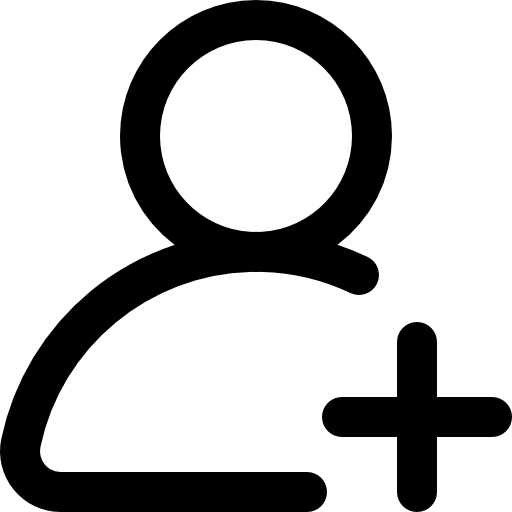
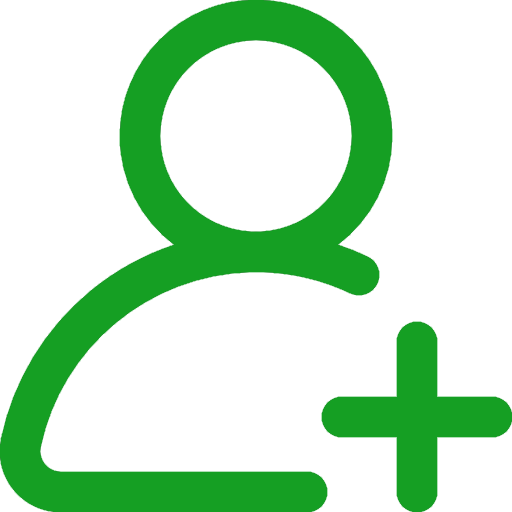
users feito so falta responsividade

Changed region(s): [[0.0, 0.0, 0.7812, 1.0], [0.625, 0.625, 1.0, 1.0]]

diff --git a/users-page.html b/users-page.html
@@ -17,7 +17,7 @@
         });
     </script>
 
-    <!-- <script src="js/users.js" type="text/javascript"></script> -->
+    <script src="js/users.js" type="text/javascript"></script>
 </head>
 <body>
     <div id="header"></div>
@@ -26,11 +26,11 @@
         <div class="content">
             <div class="title">
                 <h1>This is our community!</h1>
-                <h5>Here are some active users on our community, and their favorite games. We promote comunication and healthy/respectfull interactions, here are some recomendations:</h5>
+                <h5>Here are some active users on our community, and their favorite games. We promote comunication and respectfull interactions, here are some recomendations:</h5>
             </div>
             
             <div class="usersTable">
-                <table border="1">
+                <table>
                     <tr>
                         <th></th>
                         <th>Username</th>
@@ -38,87 +38,71 @@
                         <th colspan="2"></th>
                     </tr>
                     <tr>
-                        <td>
-                            <img src="images/user.png" width="45px">
-                        </td>
-                        <td>
-                            <p>randomPerson-username2855</p>
-                        </td>
-                        <td>
-                            <p>Minecraft</p>
-                        </td>
-                        <td>
-                            <button><img src="images/add-user.png" width="20px"> Add friend</button>
-                        </td>
-                        <td>
-                            <button><img src="images/report.png" width="20px"> report</button>
-                        </td>
+                        <td><img src="images/user.png" width="45px"></td>
+                        <td><p>randomPerson-username2855</p></td>
+                        <td><p>Minecraft</p></td>
+                        <td><button class="addFriendBtn"><img src="images/add-user.png" width="20px"> Add friend</button></td>
+                        <td><button class="reportBtn"><img src="images/report.png" width="20px"> Report</button></td>
                     </tr>
                     <tr>
-                        <td>
-                            <img src="images/user.png" width="45px">
-                        </td>
-                        <td>
-                            <p>randomPerson-username2855</p>
-                        </td>
-                        <td>
-                            <p>League of Legends</p>
-                        </td>
-                        <td>
-                            <button><img src="images/add-user.png" width="20px"> Add friend</button>
-                        </td>
-                        <td>
-                            <button><img src="images/report.png" width="20px"> report</button>
-                        </td>
+                        <td><img src="images/user.png" width="45px"></td>
+                        <td><p>randomPerson-username2855</p></td>
+                        <td><p>League of Legends</p></td>
+                        <td><button class="addFriendBtn"><img src="images/add-user.png" width="20px"> Add friend</button></td>
+                        <td><button class="reportBtn"><img src="images/report.png" width="20px"> Report</button></td>
                     </tr>
                     <tr>
-                        <td>
-                            <img src="images/user.png" width="45px">
-                        </td>
-                        <td>
-                            <p>randomPerson-username2855</p>
-                        </td>
-                        <td>
-                            <p>Terraria</p>
-                        </td>
-                        <td>
-                            <button><img src="images/add-user.png" width="20px"> Add friend</button>
-                        </td>
-                        <td>
-                            <button><img src="images/report.png" width="20px"> report</button>
-                        </td>
+                        <td><img src="images/user.png" width="45px"></td>
+                        <td><p>randomPerson-username2855</p></td>
+                        <td><p>Terraria</p></td>
+                        <td><button class="addFriendBtn"><img src="images/add-user.png" width="20px"> Add friend</button></td>
+                        <td><button class="reportBtn"><img src="images/report.png" width="20px"> Report</button></td>
                     </tr>
                     <tr>
-                        <td>
-                            <img src="images/user.png" width="45px">
-                        </td>
-                        <td>
-                            <p>randomPerson-username2855</p>
-                        </td>
-                        <td>
-                            <p>Rainbow Six Siege</p>
-                        </td>
-                        <td>
-                            <button><img src="images/add-user.png" width="20px"> Add friend</button>
-                        </td>
-                        <td>
-                            <button><img src="images/report.png" width="20px"> report</button>
-                        </td>
+                        <td><img src="images/user.png" width="45px"></td>
+                        <td><p>randomPerson-username2855</p></td>
+                        <td><p>Rainbow Six Siege</p></td>
+                        <td><button class="addFriendBtn"><img src="images/add-user.png" width="20px"> Add friend</button></td>
+                        <td><button class="reportBtn"><img src="images/report.png" width="20px"> Report</button></td>      
+                    </tr>
+                    <tr>
+                        <td><img src="images/user.png" width="45px"></td>
+                        <td><p>randomPerson-username2855</p></td>
+                        <td><p>Apex Legends</p></td>
+                        <td><button class="addFriendBtn"><img src="images/add-user.png" width="20px"> Add friend</button></td>
+                        <td><button class="reportBtn"><img src="images/report.png" width="20px"> Report</button></td>      
+                    </tr>
+                    <tr>
+                        <td><img src="images/user.png" width="45px"></td>
+                        <td><p>randomPerson-username2855</p></td>
+                        <td><p>Minecraft</p></td>
+                        <td><button class="addFriendBtn"><img src="images/add-user.png" width="20px"> Add friend</button></td>
+                        <td><button class="reportBtn"><img src="images/report.png" width="20px"> Report</button></td>      
+                    </tr>
+                    <tr>
+                        <td><img src="images/user.png" width="45px"></td>
+                        <td><p>randomPerson-username2855</p></td>
+                        <td><p>Counter Strike 2</p></td>
+                        <td><button class="addFriendBtn"><img src="images/add-user.png" width="20px"> Add friend</button></td>
+                        <td><button class="reportBtn"><img src="images/report.png" width="20px"> Report</button></td>      
                     </tr>
                 </table>
             </div>
 
             <div class="report">
-                <h3>In order to keep our community clean and respectfull we offer the option to report users, but any actions will only be taken if justified.</h3>
-                <h4>Report user via form or <a href="">email</a>!</h4>
+                <div class="reportTitle">
+                    <h3>In order to keep our community clean and respectfull we offer the option to report users, but any actions will only be taken if justified.</h3>
+                    <h4>Report user via form or <a href="mailto:exemplo@trabalhoIPW.com">email</a>!</h4>
+                </div>
+                
                 <form action="">
                     <div class="input">
                         <label for="username">Username:</label>
-                        <input type="text" name="username" id="username" placeholder="Your username ...">
+                        <input type="text" name="username" id="username" placeholder="Your username . . .">
                     </div>
                     <div class="input">
                         <label for="report_username">Reporting:</label>
-                        <input type="text" name="report_username" id="report_username" placeholder="Username you want to report...">
+                        <input type="text" name="report_username" id="report_username" placeholder="Username you want to report . . .">
                     </div>
                     <div class="input">
                         <label for="motive">Motive:</label>

diff --git a/css/users-page.css b/css/users-page.css
@@ -26,3 +26,151 @@ body {
     display: flex;
     flex-direction: column;
 }
+
+.title {
+    width: 100%;
+    text-align: center;
+    margin-bottom: 5em;
+}
+
+.title h1 {
+    color: #F45D00;
+    margin-bottom: 1em;
+}
+
+.usersTable {
+    width: 100%;
+    height: 500px;
+    overflow-y: scroll;
+    display: flex;
+    justify-content: center;
+    margin-bottom: 5em;
+}
+
+.usersTable table {
+    width: 80%;
+    border: none;
+    border-collapse: collapse;
+}
+
+.usersTable tr:hover {
+    background-color: #eeeeee;
+}
+
+.usersTable table th {
+    padding: 1em;
+    text-align: start;
+    border-bottom: 1px solid grey;
+}
+
+.usersTable table td {
+    padding: 1em;
+    border-bottom: 1px solid grey;
+}
+
+.addFriendBtn {
+    width: 90%;
+    padding: .5em;
+    background-color: white;
+    border-radius: 3px;
+    transition-duration: 0.2s;
+    color: #159f23;
+    font-weight: bold;
+    border: 2px solid #159f23;
+    display: flex;
+    justify-content: space-evenly;
+    align-items: center;
+}
+
+.reportBtn {
+    width: 90%;
+    padding: .5em;
+    background-color: white;
+    border-radius: 3px;
+    transition-duration: 0.2s;
+    color: #db1818;
+    font-weight: bold;
+    border: 2px solid #db1818;
+    display: flex;
+    justify-content: space-evenly;
+    align-items: center;
+}
+
+.addFriendBtn img, .reportBtn img {
+    transition-duration: 0.2s;
+}
+
+.addFriendBtn:hover, .reportBtn:hover {
+    cursor: pointer;
+    transform: scale(1.10);
+}
+
+.addFriendBtn:hover {
+    color: white;
+    background-color: #159f23;
+}
+
+.addFriendBtn:hover > img {
+    filter: grayscale(100%) brightness(0%) invert(100%);
+}
+
+.reportBtn:hover {
+    color: white;
+    background-color: #db1818;
+}
+
+.reportBtn:hover > img {
+    filter: grayscale(100%) brightness(0%) invert(100%);
+}
+
+.report {
+    width: 100%;
+}
+
+.reportTitle {
+    width: 100%;
+    text-align: justify;
+    color: #db1818;
+}
+
+.reportTitle h3 {
+    color: white;
+    padding: 2em;
+    background-color: #db1818;
+    border-radius: 2px;
+    margin-bottom: 2em;
+}
+
+.reportTitle a {
+    color: #4169E1;
+}
+
+.report form {
+    width: 100%;
+    padding: 1em 5em;
+    height: fit-content;
+    display: flex;
+    flex-direction: column;
+}
+
+.input {
+    width: 100%;
+    padding: 1em 0;
+    display: flex;
+}
+
+.input label {
+    width: 20%;
+    margin-left: 20%;
+    font-weight: bold;
+}
+
+.input input, .input select,.input textarea  {
+    width: 50%;
+    padding: .5em;
+    border: 1px solid grey;
+    border-radius: 2px;
+    resize: none;
+}
+
+/* responsividade */
